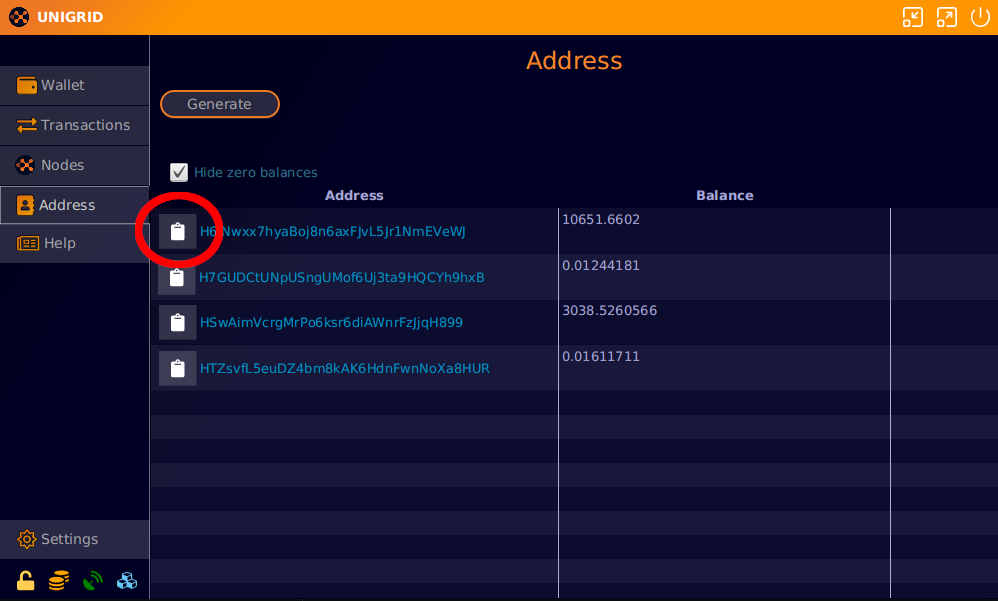
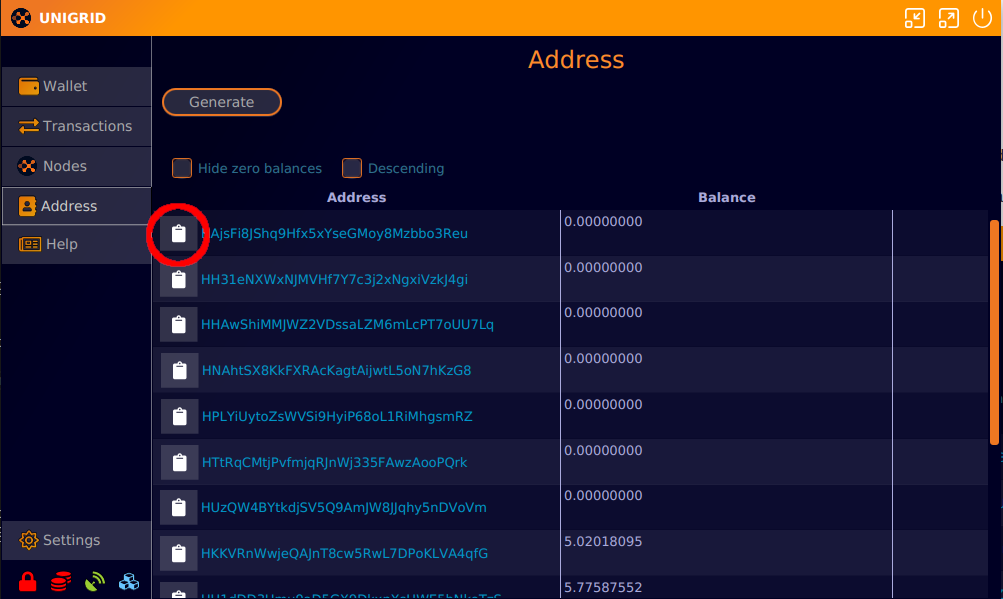
updated the gridnode guide to use the docker installer script instead of the old outdated one.

diff --git a/docs/gridnode/setup.md b/docs/gridnode/setup.md
@@ -20,7 +20,7 @@ parent: Gridnode
 
 The first step is sending tokens to your address. A gridnode requires that one [input](https://cointelegraph.com/news/what-are-inputs-and-outputs) in your address has exactly 3000 tokens.
 
-To accomplish this we first need to copy the address. Click on the clipboard next to your address that contains yours tokens.
+To accomplish this we first need to copy an address that has a 0 balance. Click on the clipboard next to your address that you would like to send tokens to.
 
 ![](../../assets/images/gn-address-copy.png)
 
@@ -28,9 +28,19 @@ Next we will send exactly 3000 tokens to this address. From the main `Wallet` sc
 
 ![](../../assets/images/gn-send-tokens.png)
 
-After the transaction has processed you will see it appear on your `Wallet` screen. Click on the clipboard to copy the transaction ID and save it for later. The transaction we created can be viewed [here](https://explorer.unigrid.org/tx/d4d91ea946eb3a1f5b8e6ae1049b44ad8ed6c5644004ab662681e6e08e714080).
+## Get transaction hash
 
-![](../../assets/images/gn-get-txid.png)
+After the transaction has processed you will see it appear on your `Wallet` screen. We need to wait a few minutes for the transation to register on the network for the next steps. Enter the `Nodes` screen and press the `Setup` button.
+
+![](../../assets/images/gh-setup-view.png)
+
+On the  `Setup` screen you should see your transaction if it has been confirmed by the network. The green check lets you know this transaction has not been used in another node, while the red ban icon lets you know one is in use already.
+
+![](../../assets/images/gh-output.png)
+
+On this same screen we will also need to generate a key for the gridnode. Click on the `Generate Key` button to create one. This will also add it to your clipboard to you can paste it somewhere for easier access. Otherwise just click on the clipboard when you need it.
+
+![](../../assets/images/gh-generate-key.png)
 
 ## Server setup
 
@@ -46,6 +56,12 @@ We recommend a minimum of 2GB per gridnode you will run. Later on the gridnodes 
 ### Windows
 
 For windows you can use `Poweshell` or in Windows 11 `terminal`. We also recommend `bitvise SSH client` which can be downloaded [here](https://www.bitvise.com/ssh-client). The `bitvise` client also comes with a file explorer that can be handy if you want to transfer files to the server. 
+
+For example: below is the command you would enter in `powershell` if trying to connect to a server with the ip address of `55.123.22.1` After connecting to the server you will be prompted to enter your password.
+
+```
+ssh ubuntu@55.123.22.1
+```
 
 ![](../../assets/images/gn-bitvise.png)
 
@@ -65,38 +81,46 @@ We have created an automated script for installing and setting up your gridnode.
 
 Copy the below code and paste this into your terminal. In `bitvise SSH client` you can use right click to paste into the terminal.
 
-```bash
-sudo bash -ic "$(wget -4qO- -o- raw.githubusercontent.com/unigrid-project/gridnode-setup/master/unigridd.sh)" ; source ~/.bashrc
+```
+bash -ic "$(wget -4qO- -o- raw.githubusercontent.com/unigrid-project/unigrid-installer/main/node_installer.sh)" ; source ~/.bashrc
 ```
 
[1 lines of base64/hex data omitted]
+After the script has installed docker and the required files you will see it asking for a txid and output index. This was the transaction ID we copied earlier from the setup screen.
 
 Paste your transaction ID into the terminal and press `ENTER`.
 
-![](../../assets/images/gn-script.png)
+![](../../assets/images/gn-paste-txid.png)
 
-The script will then check the explorer for that transaction ID and it's output ID. At the prompt press `ENTER` and use the default settings. 
+After your txid and output ID are entered the script will prompt you for the key we generated earlier. Paste that in as well and press enter.
 
-Please allow for some time, the daemon will download a bootstrap file to sync the blockchain. This can take 5-10 minutes to fully initialize the daemon.
+You should now see the script pulling the latest docker image for `Unigrid`.
+
+![](../../assets/images/gn-image-download.png)
+
+After setup and a full sync of the blockchain (5-10 minutes), you should now see something like the below with a string at the end starting with `ugd_docker`. This is the string we will need to copy back in our conf file to enable the gridnode.
+
+![](../../assets/images/gn-script-end.png)
+
+The outputs from the script are also placed in a txt file on your server. To open that type `nano ~/gridnodes.txt`. If nano is not installed you can also try `vim ~/gridnodes.txt`.
 
 ## Configuration file
 
-In your local wallet now you will need to add the output the script gave you to a configuration file.
+Back in the `Unigrid Janus` wallet go to the nodes/setup screen again and click on the `Open Config` button. This will open a text file where you paste the output from the script. 
 
-To open the configuration file simply go into your wallet/settings/general and click the `open` button for `Gridnode / Masternode file`.
+![](../../assets/images/gn-open-config.png)
 
-![](../../assets/images/gn-open-conf.png)
+Each node entry in here must be a single line otherwise the wallet will not properly parse the file. Any other text entered in here other than the output from the script may cause your wallet to not open properly. After you have saved this file and closed it please restart your wallet.
 
-Paste the output from your script on the next line. After you have saved this file and closed it please restart your wallet.
-
-![](../../assets/images/gn-conf-file.png)
+![](../../assets/images/gn-config.png)
 
 ## Starting the node
 
-Once you have restarted your wallet the configuration file will be loaded in and allow you to start the node.
+Once you have restarted your wallet the configuration file will be loaded in and allow you to start the node. Please make sure your wallet is in sync before attempting to start `MISSING` nodes. 
 
-To do so simply go to the `Nodes` screen and press the `start` button. This will attempt to start any missing nodes in the list that are disabled.
+To do so simply go to the `Nodes` screen and press the `start` button. This will attempt to start any missing nodes in the list that are disabled. If your wallet is encrypted you will be prompted to enter your password.
 
 ![](../../assets/images/gn-start.png)
 
-**note:** If you notice nodes you had enabled prior appearing as disabled, please press start again. There is a bug sometimes where they take a few tries to start. This will be resolved in a later release of the daemon.
+## Install another node
+
+If you would like to install another node on the same server and have the extra resources. Simply repeat the steps above and run the installer script again. Happy noding!
